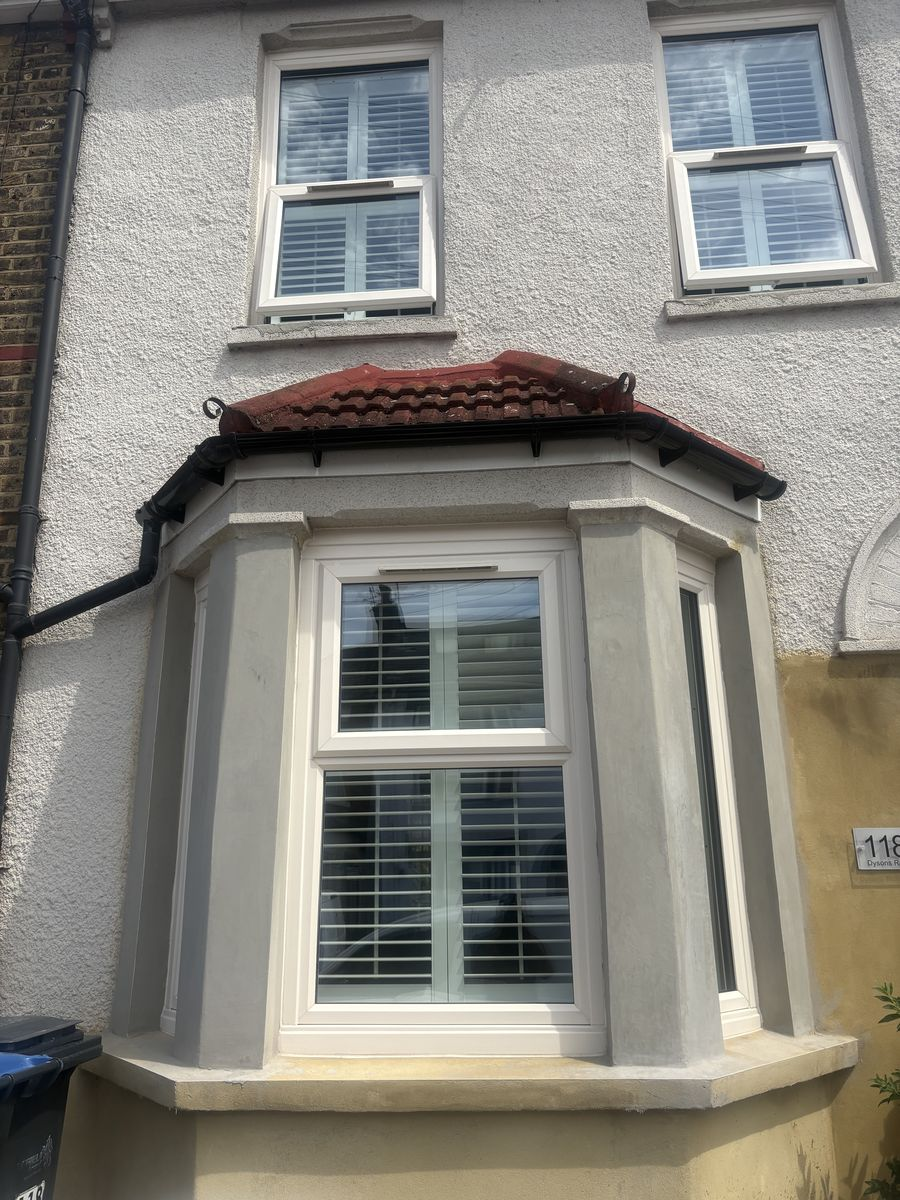
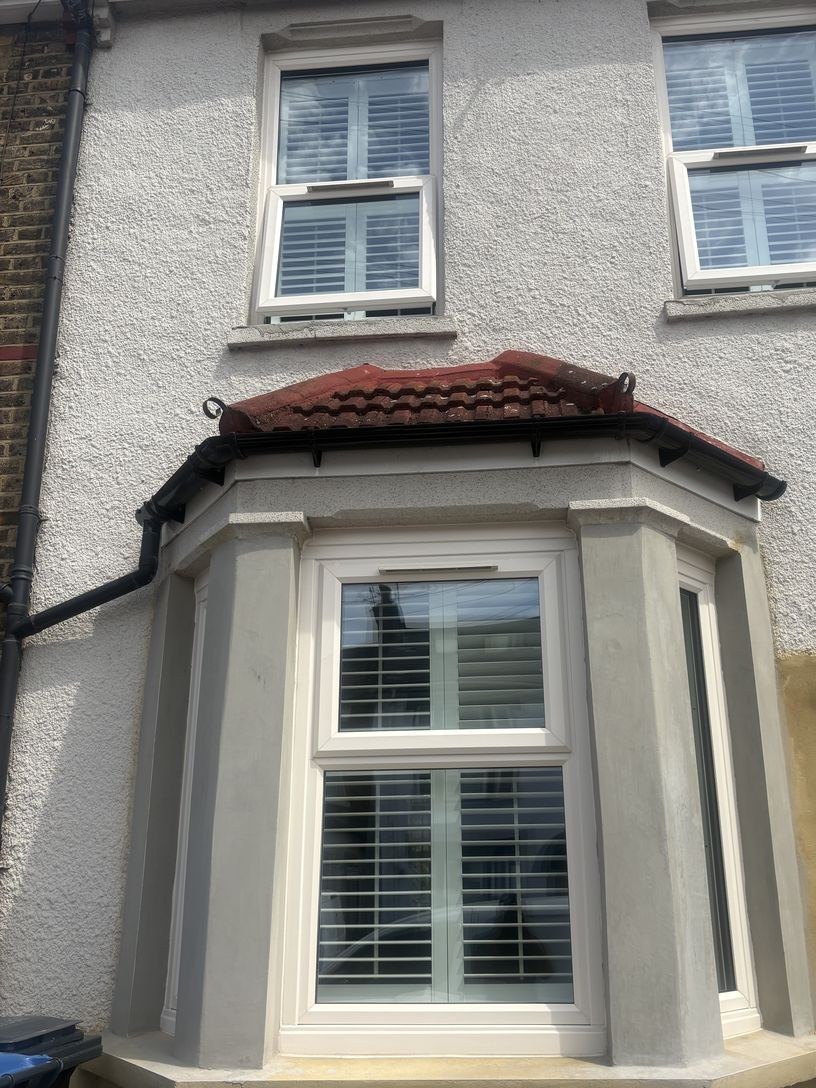
A visualisation in the hero, said so, and an address cropped out
Three separate things, all about the page claiming only what is true.

The hero pair is now a generated before-and-after of a detached brick
home, replacing photographs of a bay-fronted job. Because it is
generated, the caption stopped saying "A real job by the team behind
Facet Pro — photographs, not renders" and now says "A visualisation of
the finishes you can choose". The after also shows a block-paved drive
and planting, and driveways and landscaping are on the roadmap rather
than priced, so the caption says that too instead of letting the picture
imply an estimate covers it. Keeping the landscaping in the image was a
deliberate decision.

The gallery below is untouched and still says "Photographs, not
renders", which remains true of those eight files and only those.

terrace-before.jpg carried a house-number plaque reading "118, Dysons
R..." on the neighbouring wall, legible at the full resolution the site
serves publicly. That made the property addressable rather than merely
recognisable. The right-hand edge is cropped away, 900x1200 -> 816x1088,
still 3:4 so the gallery box is unchanged. Nothing retouched; the plaque
is simply out of frame. The other three pairs were checked for the same
thing: hero and tilehung are clean, newbuild's door plaque is illegible
at eight times magnification.

checkGalleryProvenance triggered on one literal string, so rewording the
badge silenced it. It nearly did: the badge was rewritten while three
[…]

diff --git a/EXTERIOR-AI/index.html b/EXTERIOR-AI/index.html
@@ -356,15 +356,15 @@
       <figure class="relative">
         <div class="grid grid-cols-2 gap-2 sm:gap-3">
           <div class="relative rounded-xl overflow-hidden bg-white/5">
-            <img src="/assets/work/hero-before-sm.jpg" alt="A house before the work: dated pale duck-egg grey window frames and roofline" width="600" height="450" loading="eager" decoding="async" class="w-full h-full object-cover aspect-[4/3]">
+            <img src="/assets/work/semi-before-sm.jpg" alt="A detached brick home before the work: tired white window frames, peeling paint to the bay and roofline, and a cracked concrete drive" width="600" height="450" loading="eager" decoding="async" class="w-full h-full object-cover aspect-[4/3]">
             <figcaption class="absolute top-2 left-2 text-[9px] tracking-[0.16em] uppercase px-2 py-1 rounded-full bg-black/70 text-white/90">Before</figcaption>
           </div>
           <div class="relative rounded-xl overflow-hidden bg-white/5">
-            <img src="/assets/work/hero-after-sm.jpg" alt="The same house after the work: anthracite frames and new roofline" width="600" height="450" loading="eager" decoding="async" class="w-full h-full object-cover aspect-[4/3]">
+            <img src="/assets/work/semi-after-sm.jpg" alt="The same home after: anthracite window frames, a red front door, repainted roofline and a new block-paved drive" width="600" height="450" loading="eager" decoding="async" class="w-full h-full object-cover aspect-[4/3]">
             <figcaption class="absolute top-2 left-2 text-[9px] tracking-[0.16em] uppercase px-2 py-1 rounded-full bg-white text-zinc-900">After</figcaption>
           </div>
         </div>
-        <figcaption class="mt-3 text-[11px] leading-5 text-white/50">A real job by the team behind Facet Pro &mdash; photographs, not renders. Your own house appears in the visualiser below.</figcaption>
+        <figcaption class="mt-3 text-[11px] leading-5 text-white/50">A visualisation of the finishes you can choose. The drive and planting are shown for context and are not priced by Facet Pro. Your own house appears in the visualiser below.</figcaption>
       </figure>
     </div>
   </section>

diff --git a/EXTERIOR-AI/server.js b/EXTERIOR-AI/server.js
@@ -64,10 +64,21 @@ function checkGlazingRates() {
    Warned rather than refused: the claim may well be perfectly true and only
    undocumented, and taking the site down over a missing markdown file would be
    the wrong trade. But it says so on every boot until somebody settles it. */
+/* The trigger is a set of phrasings, not one string. It was a single literal
+   match on "Photographs, not renders", which meant any rewording of the badge
+   silenced the warning without answering it — and the badge got reworded the
+   day one pair became a visualisation, while three pairs still claimed to be
+   photographed jobs. A guard that a copy edit can switch off is not a guard. */
+const PHOTOGRAPHY_CLAIMS = [
+  /Photographs, not renders/i,
+  /photographed job/i,
+  /photographed from the same spot/i,
+];
+
 function checkGalleryProvenance() {
   let page = '';
   try { page = fs.readFileSync(path.join(__dirname, 'index.html'), 'utf8'); } catch (_) { return; }
-  if (!/Photographs, not renders/i.test(page)) return;
+  if (!PHOTOGRAPHY_CLAIMS.some((re) => re.test(page))) return;
 
   let provenance = '';
   try { provenance = fs.readFileSync(path.join(__dirname, 'assets', 'work', 'PROVENANCE.md'), 'utf8'); }
@@ -77,7 +88,7 @@ function checkGalleryProvenance() {
   if (!provenance) {
     console.warn('The homepage claims the gallery is "Photographs, not renders" and assets/work/PROVENANCE.md does not exist. That claim is unsubstantiated.');
   } else if (unknowns) {
-    console.warn(`Gallery provenance is INCOMPLETE — ${unknowns} UNKNOWN entries in assets/work/PROVENANCE.md, while the homepage claims "Real homes. Real work. Photographs, not renders." Substantiate it or change the wording.`);
+    console.warn(`Gallery provenance is INCOMPLETE — ${unknowns} UNKNOWN entries in assets/work/PROVENANCE.md, while the homepage still claims the gallery is photographed work. Substantiate it or change the wording.`);
   }
 }
 

diff --git a/EXTERIOR-AI/assets/work/PROVENANCE.md b/EXTERIOR-AI/assets/work/PROVENANCE.md
@@ -28,6 +28,69 @@ put them there.
 | `tilehung-before.jpg` | UNKNOWN | | | | | UNKNOWN |
 | `tilehung-after.jpg` | UNKNOWN | | | | | UNKNOWN |
 
+## Rejected: the generated Victorian terrace pair
+
+`terrace-vis-before.jpg` and `terrace-vis-after.jpg` were split out of a wide
+composite and put into the gallery, then taken straight back out. They are
+deliberately **not committed** — a rejected asset sitting in the tree is an
+invitation to wire it back in. This note is the record instead.
+
+They are not the same house. The "after" has a Victorian street lamp standing
+at the kerb that does not exist in the "before"; the neighbouring property's
+window sits at a different height and its brickwork is a different bond
+entirely. A difference map of the two renders a complete building rather than
+cancelling to black, which is what two views of one house would do.
+
+That is the second question in this file — *is the "after" the same house as
+the "before"?* — answered no. A slider captioned "drag to compare before and
+after" showing two different buildings is a misleading comparison whether or
+not it is labelled a visualisation, so labelling would not have rescued it.
+
+Contrast the hero pair below, which passes the same test: the neighbouring
+house, fence, railings and wheelie bins hold their positions between the two
+images, down to the stickers on the bins.
+
+## The hero pair is a visualisation, not a photograph
+
+`semi-before-sm.jpg` and `semi-after-sm.jpg` — the pair at the top of the page —
+are generated images, not photographs of a job. They came from
+`dilapidated_house_before_renovation.webp` and
+`renovated_semi_detached_house.webp`, cropped to the 4:3 hero box.
+
+They are therefore **deliberately excluded from the "Photographs, not renders"
+claim**, which applies to the gallery below and to those eight files only. The
+hero caption was changed at the same time these went in: it used to read *"A
+real job by the team behind Facet Pro — photographs, not renders"* and now
+reads *"A visualisation of the finishes you can choose."* If these images are
+ever moved into the gallery, that claim starts covering them and stops being
+true — move the wording with them.
+
+The after also shows a new block-paved drive and planting. Driveways and
+landscaping are on the roadmap and are not priced, so the caption says so
+rather than letting the picture imply an estimate covers it. This was a
+deliberate decision to keep the landscaping in the image.
+
+## An address was legible and has been cropped out
+
+`terrace-before.jpg` carried a house-number plaque on the neighbouring wall,
+lower right, reading **118, Dysons R…** — legible at full resolution, which the
+site serves publicly. That made the property addressable rather than merely
+recognisable, which is a different and worse thing to publish without the
+homeowner's permission.
+
+The right-hand edge has been cropped away: 900×1200 → 816×1088, keeping the
+source at 3:4 so the gallery box is unchanged. Nothing was retouched, blurred
+or painted over — the plaque is simply outside the frame now, along with the
+neighbour's wall. The uncropped original remains in git history if permission
+is later obtained and the wider framing is wanted back.
+
+The other three pairs were checked for the same thing at the same time. `hero`
+and `tilehung` carry no number, street sign or plate. `newbuild` has a house-
+name plaque beside the door that is illegible even magnified eight times.
+
+This does not answer the permission question below for the terrace pair. It
+removes the address; it does not establish who said yes.
+
 ## Derived files
 
 `hero-before-sm.jpg` and `hero-after-sm.jpg` are not separate photographs and
